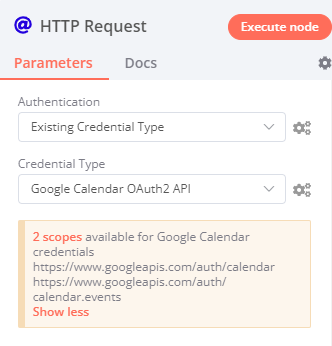
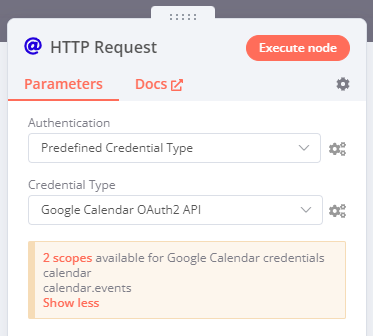
edits

diff --git a/docs/integrations/custom-operations.md b/docs/integrations/custom-operations.md
@@ -2,13 +2,13 @@
 
 n8n supplies hundreds of nodes, allowing you to create workflows that link multiple products. However, some nodes don't include all the possible operations supported by a product's API. You can work around this by making a custom API call using the [HTTP Request](/integrations/core-nodes/n8n-nodes-base.httpRequest/) node.
 
-One of the most complex parts of setting up API calls is managing authentication. To simplify this, n8n provides a way to use existential credential types (credentials associated with n8n nodes).
+One of the most complex parts of setting up API calls is managing authentication. To simplify this, n8n provides a way to use existing credential types (credentials associated with n8n nodes).
 
 ## Predefined credential types
 
 A predefined credential type is a credential associated with a particular platform. You can use predefined credential types instead of generic credentials in the HTTP Request node.
 
-For example: you create an Asana credential, for use with the Asana node. Later, you want to perfom an operation that isn't supported by the Asana node, using Asana's API. You can use your existing Asana credential in the HTTP Request node to perform the operation.
+For example: you create an Asana credential, for use with the Asana node. Later, you want to perform an operation that isn't supported by the Asana node, using Asana's API. You can use your existing Asana credential in the HTTP Request node to perform the operation.
 
 ### Using predefined credential types
 
@@ -17,7 +17,7 @@ For example: you create an Asana credential, for use with the Asana node. Later,
 
 ### Credential scopes
 
-Some existing credential types have specfic scopes: endpoints that they work with. n8n warns you about this when you select the credential type.
+Some existing credential types have specific scopes: endpoints that they work with. n8n warns you about this when you select the credential type.
 
 For example, follow the steps in [Using predefined credential types](#using-predefined-credential-types), and select **Google Calendar OAuth2 API** as your **Credential Type**. n8n displays a box listing the two endpoints you can use this credential type with:
 
